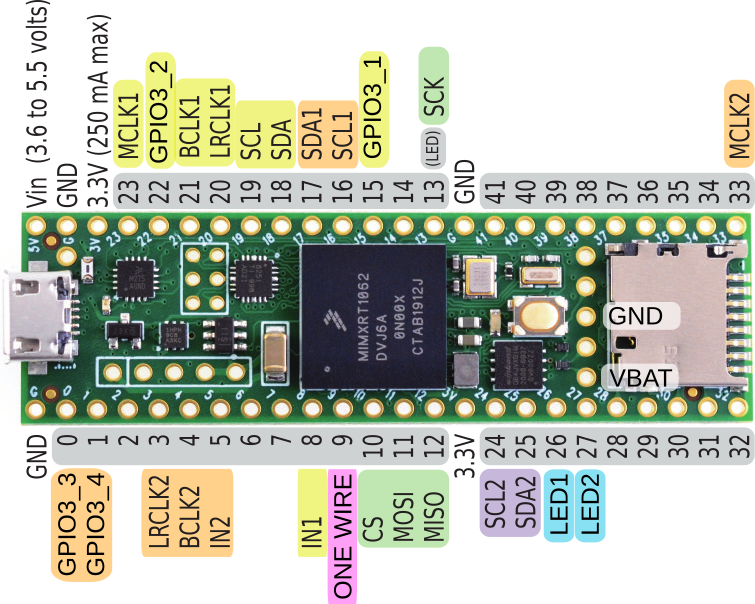
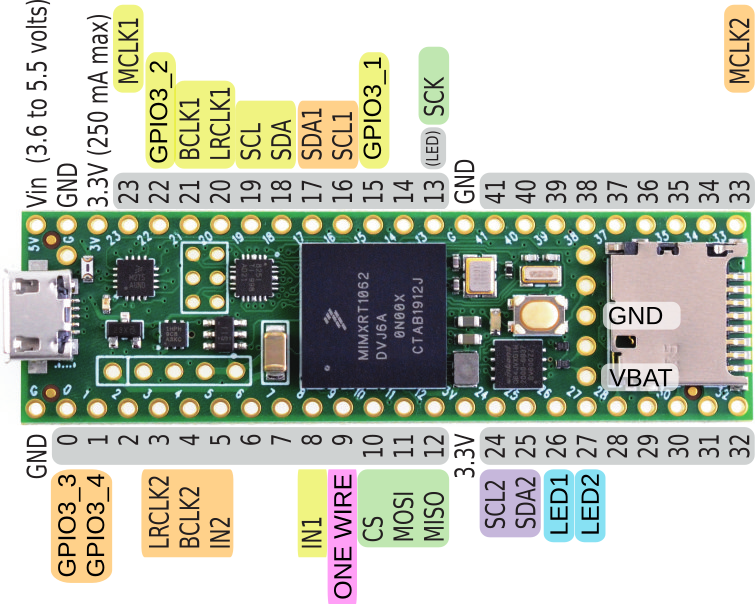
[R4.2b] added pinout desciption

diff --git a/R4.2/r42b.md b/R4.2/r42b.md
@@ -1,44 +1,14 @@
-# TeensyAmp R4.1
+# TeensyAmp R4.2b
 
 Based on
+
 - 2 [TI PCM1865](../R4.0/pcm1865.md) with ADC and adjustable gain,
-- [TI OPA1622](../R4.0/opa1622.pdf) as inverting pre-amplifier,
-- [TI TCAN334 D](../R4.0/tcan334.pdf) CAN-FD transceiver for synchronization.
+- [TI OPA1622](../R4.0/opa1622.pdf) as inverting pre-amplifier
 
 by [jlm Innovation](https://www.jlm-innovation.de/) and [Jan
 Benda](https://github.com/janscience).
 
-![R4.1](images/Teensy_Amp-R41.png)
-
-See [R4.1b](r41b.md) for development of a new version.
-
-
-## Circuit
-
-- [EAGLE schematics file](TeensyAmp_R4.1.sch)
-- [EAGLE circuit board](TeensyAmp_R4.1.brd)
-
-
-## Pre-amplifier
-
-![preampinv](images/preampinv.png)
-
-- R1=100k for grounding the signal
-- C1=10uF and R2=4.7k for a 5Hz high-pass filter
-- R2=4.7k and R3=47k for a 10x gain (gain=R3/R2)
-- no low-pass filter 
-
-If not noted otherwise, all measurements at 48kHz sampling rate.
-
-
-### Reference voltage
-
-![vref](images/vref.png)
-
-- the voltage reference needs to be really stable!
-
-
-### Pins
+## Pins
 
 Pins of the PCM1865 - see page 11 and Fig 22 in the data sheet and
 Figure 15 of the evaluation board manual:
@@ -76,10 +46,9 @@ Figure 15 of the evaluation board manual:
 | 29  | VINL3/VIN4P | SIG 3        |    |
 | 30  | VINR3/VIN3P | SIG 2        |    |
 
+### Teensy pins TI PCM1865
 
-Teensy pins:
-
-| Teensy 4.1 pin | Teensy_Amp R4.1 | Teensy_Amp R4.2 |
+| Teensy 4.1 pin | Teensy_Amp R4.1b | Teensy_Amp R4.2b |
 | -------------: | :----------- | :-------------- |
 | Vin            | Vin +5V      | Vin +5V         |
 | GND            | GND          | GND             |
@@ -94,23 +63,19 @@ Teensy pins:
 | 4              | -            | BCK             |
 | 3              | -            | LRCK            |
 | 5              | -            | DIN             |
-| 14             | -            | UART TX         |
-| 15             | GPIO3_1 chip1 | UART RX        |
+| 14             | -            | -               |
+| 15             | GPIO3_1 chip1 | -              |
 | 22             | GPIO3_2 chip2 | -              |
 | 0              | -            | GPIO3 chip1     |
 | 1              | -            | GPIO3 chip2     |
-| 30             | CAN RX       | -               |
-| 31             | CAN TX       | -               |
-| 36             | CAN STB      | -               |
-| 37             | CAN SHDN     | -               |
-| 40             | I/O UP       | -               |
-| 41             | I/O DOWN     | -               |
 | 26             | LED extern   | -               |
 | 27             | -            | LED extern      |
 
-![pinout](images/teensy41-R41-pinout.png)
+
+![pinout](images/teensy41-R42b-pinout.png)
 
 
-## CAN bus
+## Improvements
 
-You need to terminate both ends with a 120Ohm resistance.
+- Remove UART pins
+- Replace signal screw-terminals by dupont female pins (0.1" housing, right angle?)

diff --git a/R4.1/r41b.md b/R4.1/r41b.md
@@ -1,41 +1,14 @@
 # TeensyAmp R4.1b
 
 Based on
+
 - 2 [TI PCM1865](../R4.0/pcm1865.md) with ADC and adjustable gain,
-- [TI OPA1622](../R4.0/opa1622.pdf) as inverting pre-amplifier,
-- [TI TCAN334 D](../R4.0/tcan334.pdf) CAN-FD transceiver for synchronization.
+- [TI OPA1622](../R4.0/opa1622.pdf) as inverting pre-amplifier
 
 by [jlm Innovation](https://www.jlm-innovation.de/) and [Jan
 Benda](https://github.com/janscience).
 
-![R4.1](images/Teensy_Amp-R41.png)
-
-## Circuit
-
-- [EAGLE schematics file](TeensyAmp_R4.1.sch)
-- [EAGLE circuit board](TeensyAmp_R4.1.brd)
-
-
-## Pre-amplifier
-
-![preampinv](images/preampinv.png)
-
-- R1=100k for grounding the signal
-- C1=10uF and R2=4.7k for a 5Hz high-pass filter
-- R2=4.7k and R3=47k for a 10x gain (gain=R3/R2)
-- no low-pass filter 
-
-If not noted otherwise, all measurements at 48kHz sampling rate.
-
-
-### Reference voltage
-
-![vref](images/vref.png)
-
-- the voltage reference needs to be really stable!
-
-
-### Pins
+## Pins
 
 Pins of the PCM1865 - see page 11 and Fig 22 in the data sheet and
 Figure 15 of the evaluation board manual:
@@ -74,7 +47,7 @@ Figure 15 of the evaluation board manual:
 | 30  | VINR3/VIN3P | SIG 2        |    |
 
 
-#### Teensy pins TI PCM1865
+### Teensy pins TI PCM1865
 
 | Teensy 4.1 pin | Teensy_Amp R4.1b | Teensy_Amp R4.2b |
 | -------------: | :----------- | :-------------- |
@@ -85,11 +58,9 @@ Figure 15 of the evaluation board manual:
 | 19             | I2C SCL      | -               |
 | 17             | -            | I2C SDA         |
 | 16             | -            | I2C SCL         |
-| 23             | SCKl         | -               |
 | 21             | BCK          | -               |
 | 20             | LRCK         | -               |
 | 8              | DIN          | -               |
-| 33             | -            | SCKl            |
 | 4              | -            | BCK             |
 | 3              | -            | LRCK            |
 | 5              | -            | DIN             |
@@ -100,11 +71,9 @@ Figure 15 of the evaluation board manual:
 | 1              | -            | GPIO3 chip2     |
 | 26             | LED extern   | -               |
 | 27             | -            | LED extern      |
-| 24             | I2C2 SDA     | -               |
-| 25             | I2C2 SCL     | -               |
 
 
-#### Teensy pins sensors
+### Teensy pins sensors
 
 | Teensy 4.1 pin | Teensy_Amp R4.1b |
 | -------------: | :--------------- |

diff --git a/R4.2/README.md b/R4.2/README.md
@@ -9,7 +9,7 @@ Benda](https://github.com/janscience).
 
 ![R4.2](images/Teensy_Amp-R42.png)
 
-If not noted otherwise, all measurements at 48kHz sampling rate.
+See [R4.2b](r42b.md) for development of a new version.
 
 
 ## Circuit
